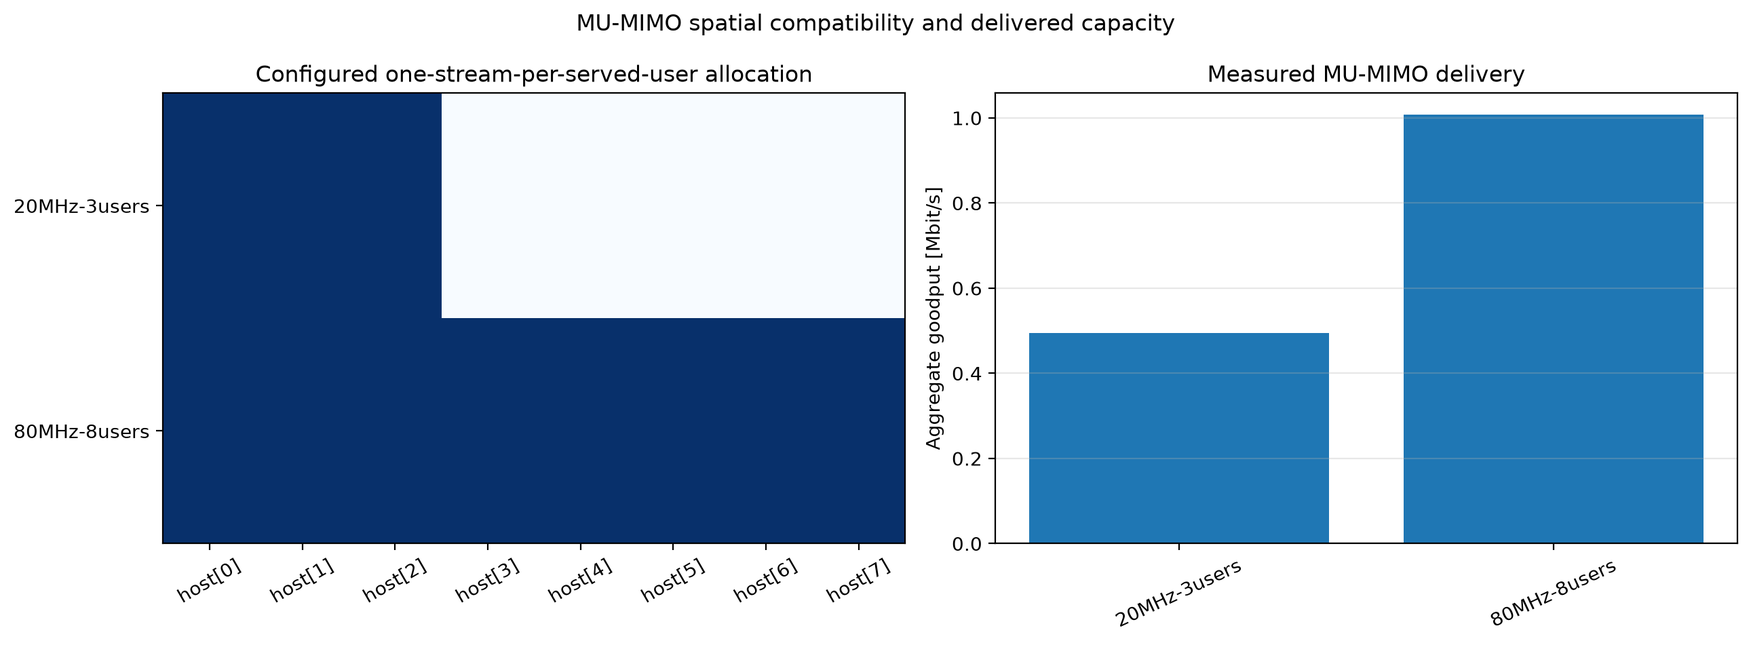
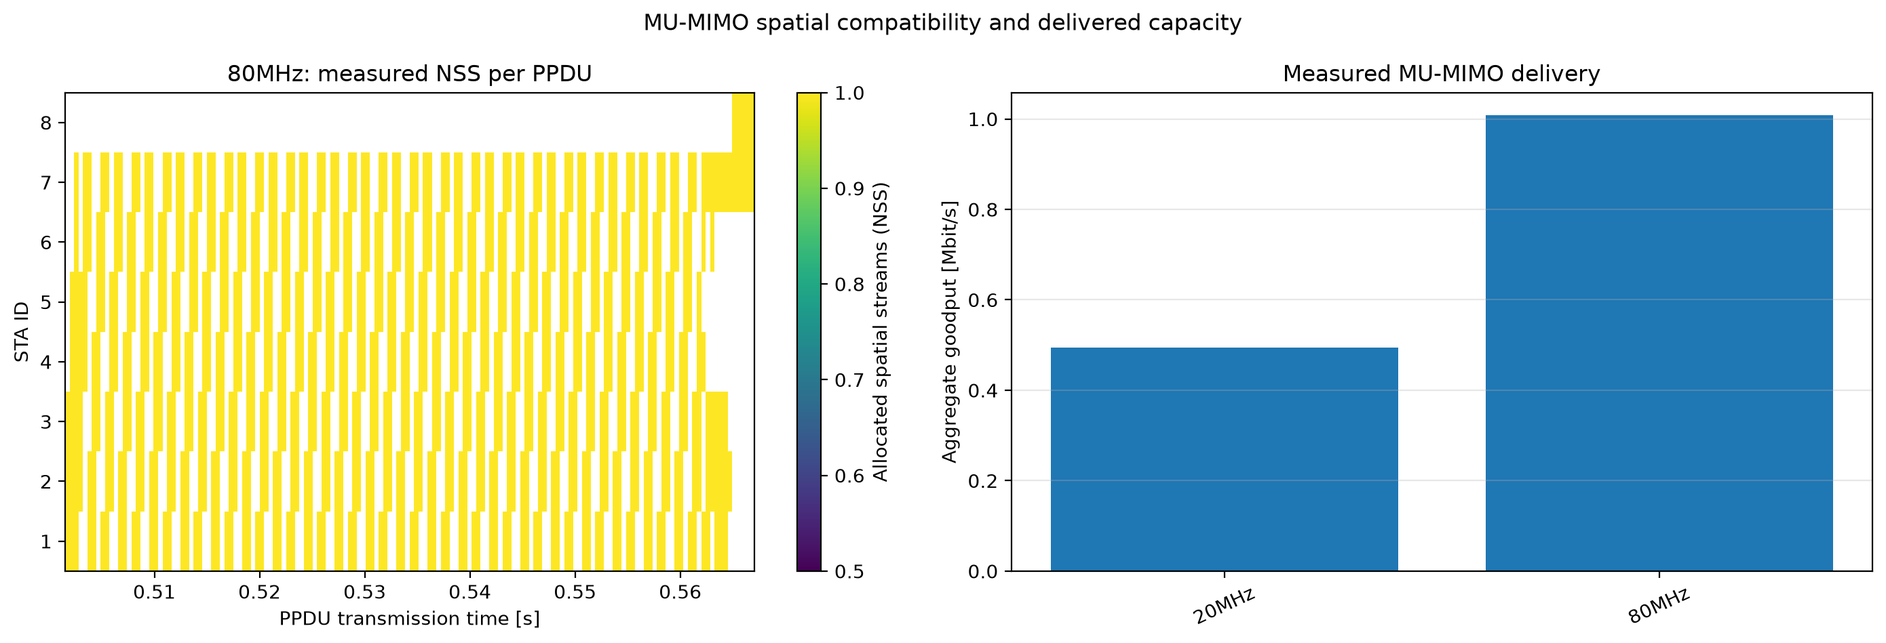
fix(802.11ax): example simulations fixes.
Key changes:

- Exported measured radio signals for:
  - RU index, tone size, tone offset, and STA ID
  - Per-PPDU NSS and spatial-stream start index
  - Resolved punctured-subchannel mask
  - ACK/BAR/Block Ack frame type and actual PHY airtime
- Fixed HE Minstrel MCS/NSS result emission.
- Fixed UORA:
  - Initial transmission without an established Block Ack agreement
  - QoS Null/BSRP attempt accounting
  - HE-TB A-MPDU header and FCS handling
  - Multi-STA Block Ack NAV duration
  - Overlapping/stale frame-sequence events
- Fixed TWT:
  - False beacon-loss reassociation during intentional sleep
  - AP queue restart at service-period boundaries
  - SU fallback transmissions incorrectly targeting sleeping peers
- Updated plotting to use measured telemetry:
  - Puncturing now shows goodput, measured RU placement, and measured masks.
  - MU-MIMO is a real PPDU-by-STA NSS matrix.
  - Acknowledgment airtime is grouped by measured ACK/BAR/Block Ack type.
  - Vector selection and missing-category handling are robust.
- Regenerated the affected checked-in figures and updated their Markdown documentation.

Primary files:

- [Ieee80211Radio.ned](src/inet/physicallayer/wireless/ieee80211/packetlevel/Ieee80211Radio.ned)
- [Ieee80211Radio.cc](src/inet/physicallayer/wireless/ieee80211/packetlevel/Ieee80211Radio.cc)
- [HeHcfUl.cc](src/inet/linklayer/ieee80211/mac/coordinationfunction/HeHcfUl.cc)
- [HeHcfDl.cc](src/inet/linklayer/ieee80211/mac/coordinationfunction/HeHcfDl.cc)
[…]

diff --git a/examples/ieee80211ax/analysis/first_tranche.py b/examples/ieee80211ax/analysis/first_tranche.py
@@ -107,6 +107,26 @@ def all_values(frame: pd.DataFrame) -> np.ndarray:
     return np.concatenate([np.asarray(value, dtype=float) for value in frame.vecvalue]) if not frame.empty else np.array([])
 
 
+def longest_vector(frame: pd.DataFrame) -> pd.Series:
+    if frame.empty:
+        raise RuntimeError("Cannot select a vector from an empty result frame")
+    return frame.loc[frame.vecvalue.map(len).idxmax()]
+
+
+def aligned_longest(*frames: pd.DataFrame) -> list[pd.Series]:
+    """Select synchronized telemetry vectors from the module with most samples."""
+    common_modules = set(frames[0].module)
+    for frame in frames[1:]:
+        common_modules &= set(frame.module)
+    if not common_modules:
+        raise RuntimeError("Measured telemetry vectors do not share a recording module")
+    module = max(common_modules, key=lambda item: len(frames[0][frames[0].module == item].iloc[0].vecvalue))
+    rows = [frame[frame.module == module].iloc[0] for frame in frames]
+    if len({len(row.vecvalue) for row in rows}) != 1:
+        raise RuntimeError(f"Measured telemetry vectors are not aligned for {module}")
+    return rows
+
+
 def duration(dataset: Dataset) -> float:
     for name in ("endToEndDelay:vector", "packetReceived:vector", "radioMode:vector", "transmissionState:vector"):
         frame = dataset.vectors(name)
@@ -286,33 +306,52 @@ def plot_uora(datasets: list[Dataset], out: Path) -> None:
 
 
 def plot_puncturing(datasets: list[Dataset], out: Path) -> None:
-    fig,axes=plt.subplots(1,2,figsize=(14,4.8)); labels=[]; goods=[]
+    fig,axes=plt.subplots(1,3,figsize=(18,4.8)); labels=[]; goods=[]
     for data in datasets: labels.append(data.label); goods.append(sum(sink_goodputs(data).values())/1e6)
     axes[0].bar(labels,goods); axes[0].set_ylabel("Goodput [Mbit/s]"); axes[0].tick_params(axis="x",rotation=25); axes[0].grid(axis="y",alpha=.3)
-    rows=[]
-    for data in datasets:
-        punctured="punct" in data.label.lower() and "without" not in data.label.lower() and "clean" not in data.label.lower(); rows.append([1,0 if punctured else 1,1,1])
-    axes[1].imshow(rows,aspect="auto",cmap="RdYlGn",vmin=0,vmax=1); axes[1].set_xticks(range(4),["20 MHz #1","#2","#3","#4"]); axes[1].set_yticks(range(len(labels)),labels); axes[1].set_title("Configuration-derived usable subchannels")
+    measured = datasets[-1]
+    offsets=measured.vectors("heRuToneOffset:vector"); sizes=measured.vectors("heRuToneSize:vector"); staids=measured.vectors("heStaId:vector"); masks=measured.vectors("hePuncturedSubchannelMask:vector")
+    if offsets.empty or sizes.empty or staids.empty or masks.empty:
+        raise RuntimeError("Puncturing suite requires measured HE RU placement and puncturing-mask vectors")
+    offset_row, size_row, sta_row=aligned_longest(offsets,sizes,staids)
+    scatter=axes[1].scatter(offset_row.vectime, offset_row.vecvalue, s=np.maximum(12,np.asarray(size_row.vecvalue)/2), c=sta_row.vecvalue, cmap="tab20", alpha=.7)
+    axes[1].set(xlabel="Simulation time [s]",ylabel="RU tone offset",title=f"{measured.label}: measured RU placement")
+    axes[1].grid(alpha=.3); fig.colorbar(scatter,ax=axes[1],label="STA ID")
+    mask_row=longest_vector(masks)
+    axes[2].step(mask_row.vectime,np.asarray(mask_row.vecvalue,dtype=np.int64),where="post")
+    axes[2].set(xlabel="Simulation time [s]",ylabel="Punctured-subchannel bit mask",title="Resolved mask per transmitted HE PPDU")
+    axes[2].grid(alpha=.3)
     fig.suptitle("Preamble puncturing: delivered goodput and frequency allocation")
     save(fig,out/"puncturing-frequency-allocation.png")
 
 
 def plot_fragmentation(datasets: list[Dataset], out: Path) -> None:
-    fig,axes=plt.subplots(1,2,figsize=(13,4.8)); ack=[]; labels=[]
+    fig,axes=plt.subplots(1,2,figsize=(13,4.8)); labels=[]; per_dataset=[]
     for data in datasets:
-        frame=data.vectors("packetSentToPeer:vector(packetBytes)"); sizes=all_values(frame)/8; ecdf(axes[0],sizes,data.label); labels.append(data.label); ack.append(scalar_sum(data,"blockAckAgreementAdded:count")+scalar_sum(data,"frameSequenceFinished:count"))
-    axes[0].set(xlabel="MAC packet size [bytes]",ylabel="ECDF",title="Fragment-size proxy from transmitted MAC packets"); axes[0].legend(fontsize="small"); axes[0].grid(alpha=.3)
-    axes[1].bar(labels,ack); axes[1].set_ylabel("Block-ack agreements + frame sequences"); axes[1].set_title("Acknowledgment-exchange overhead proxy"); axes[1].tick_params(axis="x",rotation=25); axes[1].grid(axis="y",alpha=.3)
+        frame=data.vectors("packetSentToPeer:vector(packetBytes)"); sizes=all_values(frame)/8; ecdf(axes[0],sizes,data.label); labels.append(data.label)
+        types=data.vectors("acknowledgmentFrameType:vector"); airtimes=data.vectors("acknowledgmentAirtime:vector")
+        if types.empty or airtimes.empty: raise RuntimeError("Fragmentation suite requires measured acknowledgment type/airtime vectors")
+        type_row,airtime_row=aligned_longest(types,airtimes)
+        type_values=np.asarray(type_row.vecvalue,dtype=int); airtime_values=np.asarray(airtime_row.vecvalue,dtype=float)
+        per_dataset.append({int(frame_type):float(airtime_values[type_values==frame_type].sum())*1e3 for frame_type in np.unique(type_values)})
+    axes[0].set(xlabel="Transmitted MAC frame size [bytes]",ylabel="ECDF",title="Measured transmitted-frame size distribution"); axes[0].legend(fontsize="small"); axes[0].grid(alpha=.3)
+    frame_names={0x1d:"ACK",0x18:"Block Ack Request",0x19:"Block Ack"}; frame_types=sorted(set().union(*(values.keys() for values in per_dataset)))
+    x=np.arange(len(labels)); width=.8/max(1,len(frame_types))
+    for index,frame_type in enumerate(frame_types): axes[1].bar(x+index*width,[values.get(frame_type,0) for values in per_dataset],width,label=frame_names.get(frame_type,f"type {frame_type}"))
+    axes[1].set_xticks(x+width*(len(frame_types)-1)/2,labels); axes[1].set_ylabel("Measured acknowledgment airtime [ms]"); axes[1].set_title("Frame-type-specific acknowledgment airtime"); axes[1].tick_params(axis="x",rotation=25); axes[1].grid(axis="y",alpha=.3); axes[1].legend(fontsize="small")
     save(fig,out/"fragmentation-and-ack-overhead.png")
 
 
 def plot_mimo(datasets: list[Dataset], out: Path) -> None:
-    labels=[]; stations=sorted({station for data in datasets for station in sink_goodputs(data)})
-    matrix=np.zeros((len(datasets),len(stations)))
-    for row,data in enumerate(datasets):
-        labels.append(data.label); rates=sink_goodputs(data)
-        for col,station in enumerate(stations): matrix[row,col]=1 if rates.get(station,0)>0 else 0
-    fig,axes=plt.subplots(1,2,figsize=(13,4.8)); im=axes[0].imshow(matrix,aspect="auto",cmap="Blues",vmin=0,vmax=1); axes[0].set_xticks(range(len(stations)),stations,rotation=30); axes[0].set_yticks(range(len(labels)),labels); axes[0].set_title("Configured one-stream-per-served-user allocation")
+    labels=[data.label for data in datasets]
+    measured=datasets[-1]; staids=measured.vectors("heStaId:vector"); streams=measured.vectors("heSpatialStreams:vector"); starts=measured.vectors("heStreamStartIndex:vector")
+    if staids.empty or streams.empty or starts.empty: raise RuntimeError("MU-MIMO suite requires measured STA/NSS/stream-start vectors")
+    sta_row,stream_row,start_row=aligned_longest(staids,streams,starts)
+    times=np.asarray(sta_row.vectime); station_ids=np.asarray(sta_row.vecvalue,dtype=int); nss=np.asarray(stream_row.vecvalue,dtype=float); start_indices=np.asarray(start_row.vecvalue,dtype=int)
+    ppdu_times=np.unique(times); stations=np.unique(station_ids); matrix=np.full((len(stations),len(ppdu_times)),np.nan); starts_matrix=np.full_like(matrix,np.nan)
+    time_index={value:index for index,value in enumerate(ppdu_times)}; station_index={value:index for index,value in enumerate(stations)}
+    for time,station,count,start in zip(times,station_ids,nss,start_indices): matrix[station_index[station],time_index[time]]=count; starts_matrix[station_index[station],time_index[time]]=start
+    fig,axes=plt.subplots(1,2,figsize=(14,4.8)); im=axes[0].imshow(matrix,aspect="auto",interpolation="nearest",origin="lower",extent=(ppdu_times[0],ppdu_times[-1],-.5,len(stations)-.5),vmin=0.5,cmap="viridis"); axes[0].set_yticks(range(len(stations)),stations); axes[0].set(xlabel="PPDU transmission time [s]",ylabel="STA ID",title=f"{measured.label}: measured NSS per PPDU"); fig.colorbar(im,ax=axes[0],label="Allocated spatial streams (NSS)")
     goods=[sum(sink_goodputs(data).values())/1e6 for data in datasets]; axes[1].bar(labels,goods); axes[1].set_ylabel("Aggregate goodput [Mbit/s]"); axes[1].tick_params(axis="x",rotation=25); axes[1].grid(axis="y",alpha=.3); axes[1].set_title("Measured MU-MIMO delivery")
     fig.suptitle("MU-MIMO spatial compatibility and delivered capacity")
     save(fig,out/"mu-mimo-spatial-stream-matrix.png")

diff --git a/src/inet/linklayer/ieee80211/mac/coordinationfunction/HeHcfUl.cc b/src/inet/linklayer/ieee80211/mac/coordinationfunction/HeHcfUl.cc
@@ -11,6 +11,7 @@
 
 #include "inet/common/INETMath.h"
 #include "inet/common/ModuleAccess.h"
+#include "inet/linklayer/ethernet/common/Ethernet.h"
 #include "inet/linklayer/ieee80211/mac/blockack/BlockAckAgreementUtils.h"
 #include "inet/linklayer/ieee80211/mac/channelaccess/Edca.h"
 #include "inet/linklayer/ieee80211/mac/channelaccess/Edcaf.h"
@@ -426,6 +427,14 @@ Packet *HeHcf::buildTriggeredUlResponsePacket(Packet *sourcePacket, queueing::IP
         auto firstHeader = exchange.packets.front()->removeAtFront<Ieee80211DataHeader>();
         firstHeader->setBufferStatusQueueSize(reportedQueueBytes);
         exchange.packets.front()->insertAtFront(firstHeader);
+        for (auto mpdu : exchange.packets) {
+            auto trailer = mpdu->removeAtBack<Ieee80211MacTrailer>(B(4));
+            auto fcsMode = mac->getFcsMode();
+            trailer->setFcsMode(fcsMode);
+            if (fcsMode == FCS_COMPUTED)
+                trailer->setFcs(computeEthernetFcs(mpdu, fcsMode));
+            mpdu->insertAtBack(trailer);
+        }
         if (exchange.packets.size() > 1) {
             delete responsePacket;
             responsePacket = new Packet("HE-TB-A-MPDU");
@@ -593,7 +602,12 @@ void HeHcf::processReceivedTriggerFrame(Packet *packet, const Ptr<const Ieee8021
             mac->getMib()->bssData.bssid, selectedTid).size();
     int availableSlots = ulBaAgreement == nullptr ? 0 :
             std::max(0, ulBaAgreement->getBufferSize() - occupiedSlots);
-    if (sourcePacket != nullptr && (ulBaAgreement == nullptr || availableSlots == 0))
+    // UORA must be able to send its first QoS MPDU before a Block Ack
+    // agreement exists. The Trigger exchange's Multi-STA BA directly carries
+    // the response bitmap, so reserve one slot for this non-aggregated MPDU.
+    if (randomAccess && sourcePacket != nullptr && ulBaAgreement == nullptr)
+        availableSlots = 1;
+    if (sourcePacket != nullptr && availableSlots == 0)
         sourcePacket = nullptr;
     int64_t queueBytes = 0;
     for (int i = 0; i < sourceQueue->getNumPackets(); i++) {
@@ -613,9 +627,12 @@ void HeHcf::processReceivedTriggerFrame(Packet *packet, const Ptr<const Ieee8021
     exchange.expectedResponseTime = simTime() + modeSet->getSifsTime();
     auto responsePacket = buildTriggeredUlResponsePacket(sourcePacket, sourceQueue, selectedAc,
             selectedTid, queueBytes, availableSlots, selected, trigger, exchange);
+    auto responseHeader = exchange.packets.empty() ?
+            responsePacket->peekAtFront<Ieee80211MacHeader>() :
+            exchange.packets.front()->peekAtFront<Ieee80211MacHeader>();
     if (trigger->getTriggerType() == IIeee80211HeUlTriggerPolicy::NFRP_TRIGGER)
         responsePacket->setName("HE-TB-NDP-Feedback-Report");
-    if (!exchange.packets.empty())
+    if (!exchange.packets.empty() || exchange.randomAccess)
         triggeredUlExchanges.emplace(trigger->getTriggerId(), std::move(exchange));
 
     auto radio = check_and_cast<physicallayer::IRadio *>(getContainingNicModule(this)->getSubmodule("radio"));
@@ -656,7 +673,7 @@ void HeHcf::processReceivedTriggerFrame(Packet *packet, const Ptr<const Ieee8021
              << ", " << (randomAccess ? "random-access" : "scheduled")
              << " RU=" << selected->ruIndex
              << ", packets=" << exchange.packets.size() << "\n";
-    tx->transmitFrame(responsePacket, responsePacket->peekAtFront<Ieee80211MacHeader>(),
+    tx->transmitFrame(responsePacket, responseHeader,
             modeSet->getSifsTime(), this);
     delete responsePacket;
     delete packet;
@@ -685,7 +702,12 @@ void HeHcf::processReceivedMultiStaBlockAck(Packet *packet, const Ptr<const Ieee
                 record = &multiStaBlockAck->getRecords(i);
                 break;
             }
-        bool exchangeSuccess = false;
+        // A UORA response to a BSRP Trigger is a QoS Null carrying buffer
+        // status, so there is no queued data MPDU or bitmap bit to retire. A
+        // positive per-AID response record is nevertheless a successful UORA
+        // attempt and must reset OCW and be counted.
+        bool exchangeSuccess = exchange.randomAccess && exchange.packets.empty() &&
+                record != nullptr && record->responseReceived;
         for (size_t i = 0; i < exchange.packets.size(); ++i) {
             bool acknowledged = false;
             if (record != nullptr && record->responseReceived) {

diff --git a/src/inet/physicallayer/wireless/ieee80211/packetlevel/Ieee80211Radio.cc b/src/inet/physicallayer/wireless/ieee80211/packetlevel/Ieee80211Radio.cc
@@ -61,6 +61,15 @@ namespace physicallayer {
 Define_Module(Ieee80211Radio);
 
 simsignal_t Ieee80211Radio::radioChannelChangedSignal = cComponent::registerSignal("radioChannelChanged");
+simsignal_t Ieee80211Radio::heRuIndexSignal = cComponent::registerSignal("heRuIndex");
+simsignal_t Ieee80211Radio::heRuToneSizeSignal = cComponent::registerSignal("heRuToneSize");
+simsignal_t Ieee80211Radio::heRuToneOffsetSignal = cComponent::registerSignal("heRuToneOffset");
+simsignal_t Ieee80211Radio::heStaIdSignal = cComponent::registerSignal("heStaId");
+simsignal_t Ieee80211Radio::heSpatialStreamsSignal = cComponent::registerSignal("heSpatialStreams");
+simsignal_t Ieee80211Radio::heStreamStartIndexSignal = cComponent::registerSignal("heStreamStartIndex");
+simsignal_t Ieee80211Radio::hePuncturedSubchannelMaskSignal = cComponent::registerSignal("hePuncturedSubchannelMask");
+simsignal_t Ieee80211Radio::acknowledgmentFrameTypeSignal = cComponent::registerSignal("acknowledgmentFrameType");
+simsignal_t Ieee80211Radio::acknowledgmentAirtimeSignal = cComponent::registerSignal("acknowledgmentAirtime");
 
 static std::vector<Ieee80211HeMuUserInfo> collectHeMuUsers(const Packet *packet)
 {
@@ -338,9 +347,35 @@ bool Ieee80211Radio::verifyFcs(const Ptr<const Ieee80211PhyHeader>& phyHeader) c
 
 void Ieee80211Radio::encapsulate(Packet *packet) const
 {
+    auto self = const_cast<Ieee80211Radio *>(this);
     auto ieee80211Transmitter = check_and_cast<const Ieee80211Transmitter *>(transmitter);
     auto mode = ieee80211Transmitter->computeTransmissionMode(packet);
     auto heMuUsers = collectHeMuUsers(packet);
+    if (!heMuUsers.empty()) {
+        auto request = packet->findTag<Ieee80211HeMuReq>();
+        auto commonRequest = packet->findTag<Ieee80211HeMuCommonReq>();
+        self->emit(hePuncturedSubchannelMaskSignal, (long)(request != nullptr ? request->getPuncturedSubchannelMask() :
+                commonRequest != nullptr ? commonRequest->getPuncturedSubchannelMask() : 0));
+        for (const auto& user : heMuUsers) {
+            self->emit(heRuIndexSignal, (long)user.ruIndex);
+            self->emit(heRuToneSizeSignal, (long)user.ruToneSize);
+            self->emit(heRuToneOffsetSignal, (long)user.ruToneOffset);
+            self->emit(heStaIdSignal, (long)user.staId);
+            self->emit(heSpatialStreamsSignal, (long)user.numberOfSpatialStreams);
+            self->emit(heStreamStartIndexSignal, (long)user.streamStartIndex);
+        }
+    }
+    auto frontChunk = packet->peekAtFront<Chunk>();
+    if (auto macHeader = dynamicPtrCast<const ieee80211::Ieee80211MacHeader>(frontChunk)) {
+        bool acknowledgment = dynamicPtrCast<const ieee80211::Ieee80211AckFrame>(macHeader) != nullptr ||
+                dynamicPtrCast<const ieee80211::Ieee80211BlockAckReq>(macHeader) != nullptr ||
+                dynamicPtrCast<const ieee80211::Ieee80211BlockAck>(macHeader) != nullptr;
+        if (acknowledgment) {
+            self->emit(acknowledgmentFrameTypeSignal, (long)macHeader->getType());
+            self->emit(acknowledgmentAirtimeSignal,
+                    SimTime(mode->getDuration(packet->getDataLength()).dbl()));
+        }
+    }
     auto phyHeader = !heMuUsers.empty() ? staticPtrCast<Ieee80211PhyHeader>(makeShared<Ieee80211HeMuPhyHeader>()) : mode->getHeaderMode()->createHeader();
     if (auto heMuPhyHeader = dynamicPtrCast<Ieee80211HeMuPhyHeader>(phyHeader)) {
         auto networkInterface = getContainingNicModule(this);

diff --git a/src/inet/linklayer/ieee80211/mac/framesequence/FrameSequenceHandler.cc b/src/inet/linklayer/ieee80211/mac/framesequence/FrameSequenceHandler.cc
@@ -36,7 +36,13 @@ void FrameSequenceHandler::handleStartRxTimeout()
             break;
         }
         case IFrameSequenceStep::Type::TRANSMIT:
-            throw cRuntimeError("Received timeout while in transmit step");
+            // The receive timeout belongs to the preceding collection step.
+            // If that step completed from a response at the same simulation
+            // time, its timer may already be the event being dispatched and
+            // cannot be cancelled retroactively. The active transmit step has
+            // no receive timeout to fail, so ignore this stale event.
+            EV_DEBUG << "Ignoring stale receive timeout during transmit step\n";
+            break;
         default:
             throw cRuntimeError("Unknown step type");
     }
@@ -73,7 +79,14 @@ void FrameSequenceHandler::processResponse(Packet *frame)
             break;
         }
         case IFrameSequenceStep::Type::TRANSMIT:
-            throw cRuntimeError("Received frame while current step is transmit");
+            // A half-duplex 802.11 MAC cannot process a response that overlaps
+            // its own transmission. Propagation delay may still deliver such
+            // a frame from the packet-level radio; treat it as an undecodable
+            // overlapping reception instead of aborting the active sequence.
+            EV_WARN << "Discarding received frame while current step is transmit: "
+                    << frame->getName() << "\n";
+            delete frame;
+            break;
         default:
             throw cRuntimeError("Unknown step type");
     }

diff --git a/src/inet/linklayer/ieee80211/mac/framesequence/HeUlMuTxOpFs.cc b/src/inet/linklayer/ieee80211/mac/framesequence/HeUlMuTxOpFs.cc
@@ -220,7 +220,13 @@ Packet *HeUlMuTxOpFs::buildTriggerPacket() const
     // 9.3.1.22 says the Trigger Duration field follows 9.2.5.  Here it covers
     // the SIFS-delayed HE TB response and the AP's following SIFS response.
     auto responseDuration = modeSet->getSifsTime() + schedule.commonDuration;
-    header->setDurationField(responseDuration + modeSet->getSifsTime());
+    // Keep non-participating STAs' NAV set through the AP response. Without
+    // the Multi-STA BlockAck airtime, their NAV expired exactly when the AP
+    // began transmitting the BlockAck and an EDCA frame could arrive while
+    // the frame-sequence state was still in its transmit step.
+    auto maxBlockAckLength = B(18 + 12 * schedule.allocations.size() + 4);
+    auto blockAckDuration = modeSet->getSlowestMandatoryMode()->getDuration(maxBlockAckLength);
+    header->setDurationField(responseDuration + modeSet->getSifsTime() + blockAckDuration);
     int userInfoSize = (triggerType == IIeee80211HeUlTriggerPolicy::BSRP_TRIGGER ||
             triggerType == IIeee80211HeUlTriggerPolicy::NFRP_TRIGGER) ? 5 : 6;
     header->setChunkLength(B(24 + userInfoSize * schedule.allocations.size()));

diff --git a/src/inet/linklayer/ieee80211/mac/coordinationfunction/HeHcfDl.cc b/src/inet/linklayer/ieee80211/mac/coordinationfunction/HeHcfDl.cc
@@ -295,6 +295,9 @@ queueing::IPacketQueue *HeHcf::findOldestPerStaQueue(AccessCategory ac) const
         if (queue->isEmpty())
             continue;
         auto packet = queue->getPacket(0);
+        auto header = packet->peekAtFront<Ieee80211MacHeader>();
+        if (isTwtSleeping(mac, header->getReceiverAddress()))
+            continue;
         auto enqueueTimeTag = packet->findTag<OrigEnqueueTimeTag>();
         auto enqueueTime = enqueueTimeTag == nullptr ? packet->getArrivalTime() : enqueueTimeTag->getEnqueueTime();
         if (oldestQueue == nullptr || enqueueTime < oldestEnqueueTime) {
@@ -321,6 +324,7 @@ bool HeHcf::stagePerStaFrameForBlockAckBootstrap(AccessCategory ac)
         auto header = dynamicPtrCast<const Ieee80211DataHeader>(packet->peekAtFront<Ieee80211MacHeader>());
         if (header == nullptr || header->getType() != ST_DATA_WITH_QOS ||
                 header->getReceiverAddress().isMulticast() || header->getReceiverAddress().isBroadcast() ||
+                isTwtSleeping(mac, header->getReceiverAddress()) ||
                 !originatorBlockAckAgreementPolicy->isAddbaReqNeeded(packet, header))
             continue;
 

diff --git a/src/inet/linklayer/ieee80211/twt/Ieee80211TwtExampleAgent.cc b/src/inet/linklayer/ieee80211/twt/Ieee80211TwtExampleAgent.cc
@@ -44,5 +44,28 @@ void Ieee80211TwtExampleAgent::processAssociateConfirm(Ieee80211Prim_AssociateCo
     requestTwtSetup(request);
 }
 
+void Ieee80211TwtExampleAgent::processTwtSetupConfirm(Ieee80211Prim_TwtSetupConfirm *resp)
+{
+    Ieee80211AgentSta::processTwtSetupConfirm(resp);
+    twtAgreementActive = resp->getResultCode() == PRC_SUCCESS;
+}
+
+void Ieee80211TwtExampleAgent::processTwtTeardownConfirm(Ieee80211Prim_TwtTeardownConfirm *resp)
+{
+    Ieee80211AgentSta::processTwtTeardownConfirm(resp);
+    if (resp->getResultCode() == PRC_SUCCESS)
+        twtAgreementActive = false;
+}
+
+void Ieee80211TwtExampleAgent::receiveSignal(cComponent *source, simsignal_t signalID, cObject *obj, cObject *details)
+{
+    if (signalID == l2BeaconLostSignal && twtAgreementActive) {
+        Enter_Method("%s", cComponent::getSignalName(signalID));
+        EV_INFO << "Ignoring beacon-loss indication while a TWT agreement intentionally permits beacon sleep\n";
+        return;
+    }
+    Ieee80211AgentSta::receiveSignal(source, signalID, obj, details);
+}
+
 } // namespace ieee80211
 } // namespace inet

diff --git a/src/inet/physicallayer/wireless/ieee80211/packetlevel/Ieee80211Radio.h b/src/inet/physicallayer/wireless/ieee80211/packetlevel/Ieee80211Radio.h
@@ -26,6 +26,15 @@ class INET_API Ieee80211Radio : public FlatRadioBase
      * The signal value is the new radio channel.
      */
     static simsignal_t radioChannelChangedSignal;
+    static simsignal_t heRuIndexSignal;
+    static simsignal_t heRuToneSizeSignal;
+    static simsignal_t heRuToneOffsetSignal;
+    static simsignal_t heStaIdSignal;
+    static simsignal_t heSpatialStreamsSignal;
+    static simsignal_t heStreamStartIndexSignal;
+    static simsignal_t hePuncturedSubchannelMaskSignal;
+    static simsignal_t acknowledgmentFrameTypeSignal;
+    static simsignal_t acknowledgmentAirtimeSignal;
     static const Ptr<const Ieee80211PhyHeader> popIeee80211PhyHeaderAtFront(Packet *packet, b length = b(-1), int flags = 0);
     static const Ptr<const Ieee80211PhyHeader> peekIeee80211PhyHeaderAtFront(const Packet *packet, b length = b(-1), int flags = 0);
 

diff --git a/src/inet/linklayer/ieee80211/twt/Ieee80211TwtExampleAgent.h b/src/inet/linklayer/ieee80211/twt/Ieee80211TwtExampleAgent.h
@@ -23,10 +23,14 @@ class INET_API Ieee80211TwtExampleAgent : public Ieee80211AgentSta
     simtime_t wakeDuration;
     simtime_t firstWakeOffset;
     int broadcastId = 0;
+    bool twtAgreementActive = false;
 
   protected:
     virtual void initialize(int stage) override;
     virtual void processAssociateConfirm(Ieee80211Prim_AssociateConfirm *resp) override;
+    virtual void processTwtSetupConfirm(Ieee80211Prim_TwtSetupConfirm *resp) override;
+    virtual void processTwtTeardownConfirm(Ieee80211Prim_TwtTeardownConfirm *resp) override;
+    virtual void receiveSignal(cComponent *source, simsignal_t signalID, cObject *obj, cObject *details) override;
 };
 
 } // namespace ieee80211

diff --git a/src/inet/linklayer/ieee80211/mac/ratecontrol/HeMinstrelRateControl.cc b/src/inet/linklayer/ieee80211/mac/ratecontrol/HeMinstrelRateControl.cc
@@ -200,6 +200,11 @@ void HeMinstrelRateControl::reportHeTxResult(const MacAddress& peer, int mcs,
     stats.attempts++;
     if (success)
         stats.successes++;
+    // Export the mode that was actually transmitted as well as selections
+    // made directly through selectHeMode(). Some HE frame paths use the
+    // installed fallback/current mode and therefore bypass scheduler lookup.
+    emit(selectedMcsSignal, (long)mcs);
+    emit(selectedNssSignal, (long)numberOfSpatialStreams);
     double sample = success ? 1.0 / std::max(1, retryCount + 1) : 0.0;
     stats.ewmaSuccessProbability = ewmaWeight * stats.ewmaSuccessProbability +
             (1 - ewmaWeight) * sample;

diff --git a/src/inet/linklayer/ieee80211/mac/coordinationfunction/Hcf.cc b/src/inet/linklayer/ieee80211/mac/coordinationfunction/Hcf.cc
@@ -938,6 +938,17 @@ bool Hcf::hasFrameToTransmit()
         throw cRuntimeError("Hcca is unimplemented");
 }
 
+void Hcf::twtServicePeriodChanged()
+{
+    Enter_Method("twtServicePeriodChanged");
+    for (int ac = AC_BK; ac <= AC_VO; ac++) {
+        auto accessCategory = static_cast<AccessCategory>(ac);
+        auto edcaf = edca->getEdcaf(accessCategory);
+        if (edcaf != nullptr && hasFrameToTransmit(accessCategory))
+            edca->requestChannelAccess(accessCategory, this);
+    }
+}
+
 void Hcf::sendUp(const std::vector<Packet *>& completeFrames)
 {
     for (auto frame : completeFrames)

diff --git a/src/inet/linklayer/ieee80211/mac/Ieee80211Mac.cc b/src/inet/linklayer/ieee80211/mac/Ieee80211Mac.cc
@@ -443,6 +443,13 @@ void Ieee80211Mac::setTwtRadioAwake(bool awake)
         configureRadioMode(awake ? IRadio::RADIO_MODE_RECEIVER : IRadio::RADIO_MODE_SLEEP);
 }
 
+void Ieee80211Mac::twtServicePeriodChanged()
+{
+    Enter_Method("twtServicePeriodChanged");
+    if (hcf != nullptr)
+        hcf->twtServicePeriodChanged();
+}
+
 bool Ieee80211Mac::isTwtPeerEligible(const MacAddress& peer) const
 {
     return twtManager == nullptr || twtManager->isPeerEligible(peer);
